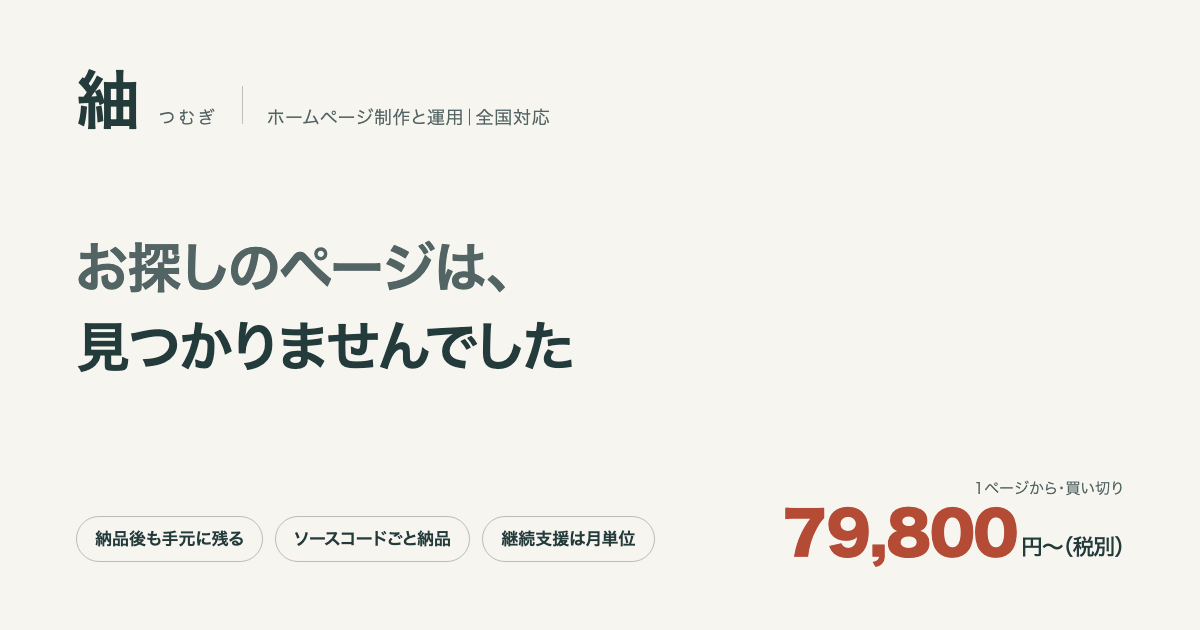
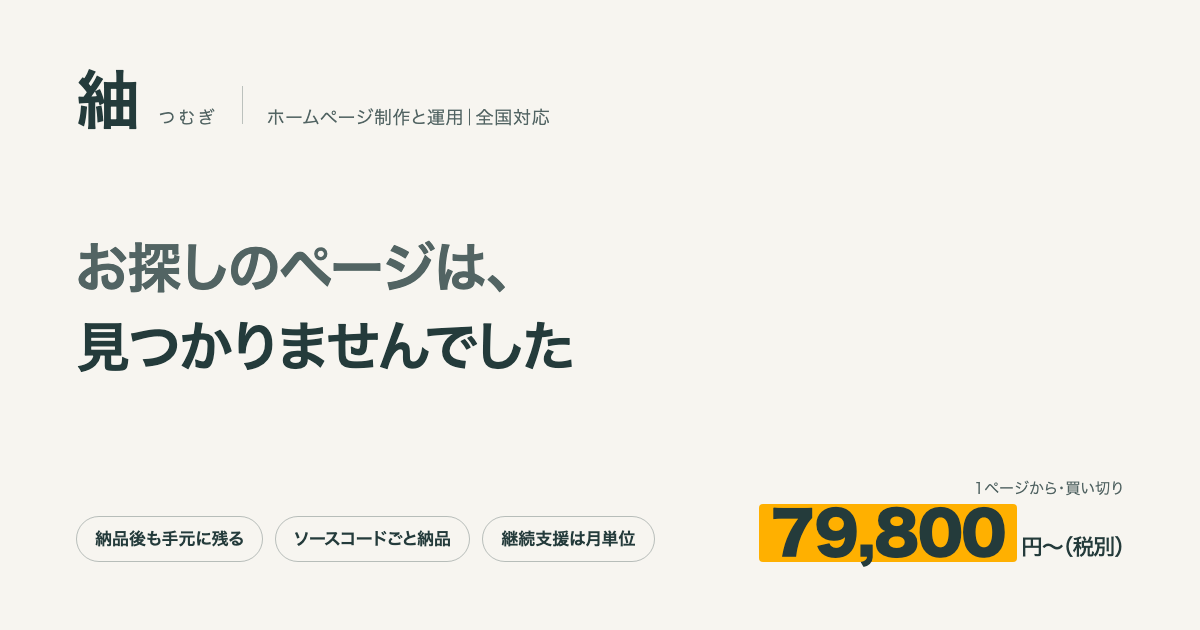
design: switch accent to warm amber with readable ink text

Changed region(s): [[0.6167, 0.7841, 0.8633, 0.9048]]

diff --git a/src/styles/tokens.css b/src/styles/tokens.css
@@ -7,10 +7,10 @@
   /* color */
   --color-main: #F7F5F0;  /* メイン70%：生成り。背景・余白・反転文字 */
   --color-sub: #243B3B;  /* サブ20%：墨。本文・説明の面・構造線 */
-  --color-accent: #B44B35;  /* アクセント10%：朱。主要操作・重要な数字・相談の面 */
+  --color-accent: #FFB000;  /* アクセント10%：琥珀。主要操作・重要な数字・相談の面 */
   --color-header-paper: #F7F5F0;
   --color-header-ink: #243B3B;
-  --color-header-brass: #B44B35;
+  --color-header-brass: #FFB000;
   --color-white: #F7F5F0;
   --color-ink: #243B3B;
   --color-panel: #243B3B;
@@ -20,25 +20,25 @@
   --color-paper: #F7F5F0;
   --color-line: color-mix(in srgb, var(--color-sub) 20%, var(--color-main));
   --color-line-strong: color-mix(in srgb, var(--color-sub) 45%, var(--color-main));
-  --color-green: #B44B35;
-  --color-green-deep: #B44B35;
-  --color-blue: #B44B35;
+  --color-green: #FFB000;
+  --color-green-deep: color-mix(in srgb, var(--color-accent) 25%, var(--color-sub));
+  --color-blue: #FFB000;
   --color-muted: color-mix(in srgb, var(--color-sub) 78%, var(--color-main));
   --color-muted-on-ink: color-mix(in srgb, var(--color-main) 82%, var(--color-sub));
   --color-alert: #243B3B;
   --color-alert-bg: #F7F5F0;
-  --color-ok: #B44B35;
+  --color-ok: color-mix(in srgb, var(--color-accent) 25%, var(--color-sub));
   --color-ok-bg: #F7F5F0;
   --color-warn: #243B3B;
   --color-warn-bg: #F7F5F0;
 
   /* theme */
-  --color-campaign-accent: #B44B35;
-  --color-campaign-accent-ink: #F7F5F0;  /* 朱の面は生成りの文字。小さい文字も薄めない */
-  --color-campaign-accent-text: #B44B35;  /* 白地に置く強調文字・リンク */
-  --color-main-accent: #B44B35;
-  --color-main-accent-ink: #F7F5F0;
-  --color-main-accent-text: #B44B35;
+  --color-campaign-accent: #FFB000;
+  --color-campaign-accent-ink: #243B3B;  /* 琥珀の面は墨の文字。小さい文字も薄めない */
+  --color-campaign-accent-text: color-mix(in srgb, var(--color-accent) 25%, var(--color-sub));  /* 白地に置く強調文字・リンク */
+  --color-main-accent: #FFB000;
+  --color-main-accent-ink: #243B3B;
+  --color-main-accent-text: color-mix(in srgb, var(--color-accent) 25%, var(--color-sub));
 
   /* size */
   --spacing-home-container: 1280px;  /* ホーム本文。図解と比較のための広い器 */

diff --git a/src/styles/home.css b/src/styles/home.css
@@ -31,7 +31,7 @@
     @apply rounded-[6px] text-[14px];
   }
   .home-content .btn-1 {
-    @apply bg-accent text-main border-accent min-w-[220px];
+    @apply bg-accent text-sub border-accent min-w-[220px];
   }
   .home-content .btn-2 {
     @apply border-line-strong;
@@ -43,7 +43,7 @@
     @apply bg-surface border-ink;
   }
   .home-intro .pricebox {
-    @apply flex flex-col items-stretch gap-[32px] p-[40px] bg-accent text-main;
+    @apply flex flex-col items-stretch gap-[32px] p-[40px] bg-accent text-sub;
     border: 0;
     @apply rounded-[20px];
   }
@@ -599,30 +599,43 @@
   }
 }
 
-/* 7:2:1の面積配分。最後の相談エリアを朱の面にする。 */
+/* 7:2:1の面積配分。琥珀の面は見出し・補足・操作とも墨で統一する。 */
 @layer overrides {
   .home-intro .pricebox .pre,
-  .home-intro .pricebox .alt li {
-    @apply text-main;
-  }
-  .home-section.dark .card h3 .ic {
-    @apply text-main;
-  }
-  .home-section.home-contact {
-    @apply bg-accent text-main;
-  }
+  .home-intro .pricebox .alt li,
+  .home-intro .pricebox .alt li b,
+  .home-contact h2,
   .home-contact .sh .lede,
+  .home-contact .sh .lede strong,
   .home-contact .stat .k,
   .home-contact .stat > .ic {
-    @apply text-main;
+    @apply text-sub;
+  }
+  .home-section.dark .card h3 .ic {
+    @apply text-accent;
+  }
+  .home-intro .pricebox .alt {
+    border-color: var(--color-sub);
+  }
+  .home-intro .pricebox .alt li::before {
+    @apply bg-sub;
+  }
+  .home-section.home-contact {
+    @apply bg-accent text-sub;
   }
   .home-contact .btn-1 {
-    @apply bg-main text-sub border-main;
+    @apply bg-sub text-main border-sub;
   }
   .home-contact .btn-2 {
-    @apply text-main border-main;
+    @apply text-sub border-sub;
+  }
+  .home-contact .btn-2:hover {
+    @apply bg-main text-sub;
   }
   .home-contact .stat {
-    border-color: var(--color-main);
+    border-color: var(--color-sub);
+  }
+  .home-section.home-contact :where(a, summary, label):focus-visible {
+    outline-color: var(--color-sub);
   }
 }

diff --git a/src/styles/components.css b/src/styles/components.css
@@ -115,7 +115,7 @@
   .header-contact {
     @apply inline-flex items-center justify-center gap-[18px] min-h-[48px] p-[10px_20px];
     border: 1px solid var(--color-accent);
-    @apply rounded-[4px] bg-accent text-main text-[13px] font-medium tracking-[.05em] whitespace-nowrap no-underline;
+    @apply rounded-[4px] bg-accent text-sub text-[13px] font-medium tracking-[.05em] whitespace-nowrap no-underline;
     transition:
       background var(--duration-fast) ease,
       color var(--duration-fast) ease;
@@ -250,7 +250,7 @@
     @apply text-white;
   }
 
-  /* 価格の面。ホームでは朱の面と生成りの文字で入口価格を示す */
+  /* 価格の面。ホームでは琥珀の面と生成りの文字で入口価格を示す */
   .pricebox {
     @apply flex flex-wrap items-center gap-[28px_40px] p-gap-group;
     border: 1px solid color-mix(in srgb, var(--color-main) 18%, transparent);
@@ -292,7 +292,7 @@
   }
 
   /* ══ C16 PrimaryAction / C17 SecondaryAction
-       主要CTA PC 315×57 / モバイル 260×48。朱の上は生成りの文字（ADR 0014） */
+       主要CTA PC 315×57 / モバイル 260×48。琥珀の上は墨の文字（ADR 0014） */
   .btns {
     @apply flex flex-wrap gap-[14px];
   }
@@ -746,7 +746,7 @@
   section.dark .calc .r.net .k .ic {
     @apply text-[var(--accent-ink)];
   }
-  /* 朱の面に載る補足。生成りの文字を薄めず、コントラストを保つ */
+  /* 琥珀の面に載る補足。墨の文字を薄めず、コントラストを保つ */
   section.dark .calc .r.net .k em {
     @apply text-[var(--accent-ink)];
   }
@@ -1157,8 +1157,8 @@
     background: var(--color-main);
     border-top-color: var(--color-line);
     @apply text-sub;
-    --fig-accent: var(--color-accent);
-    --fig-ok: var(--color-accent);
+    --fig-accent: var(--accent-text);
+    --fig-ok: var(--color-ok);
     --fig-bad: var(--color-sub);
   }
   section.dark .fig figcaption {

diff --git a/src/styles/footer.css b/src/styles/footer.css
@@ -39,11 +39,11 @@
     @apply whitespace-nowrap;
   }
   .ftr .footer-contact {
-    @apply inline-flex items-center justify-center gap-[16px] min-h-[60px] p-[16px_24px] rounded-[6px] bg-accent text-main text-[14px] whitespace-nowrap flex-[none];
+    @apply inline-flex items-center justify-center gap-[16px] min-h-[60px] p-[16px_24px] rounded-[6px] bg-accent text-sub text-[14px] whitespace-nowrap flex-[none];
     transition: background var(--duration-fast) ease;
   }
   .ftr .footer-contact:hover {
-    @apply bg-header-ink no-underline;
+    @apply bg-header-ink text-main no-underline;
   }
   .footer-contact .ic:last-child {
     @apply ml-[16px];

diff --git a/tools/scripts/og.ts b/tools/scripts/og.ts
@@ -71,7 +71,7 @@ const faviSvg = (m: string) =>
   `<rect width="64" height="64" rx="12" fill="${tokens.color.accent.$value}"/>` +
   '<text x="32" y="33" text-anchor="middle" dominant-baseline="central" ' +
   'font-family="Hiragino Sans, Noto Sans CJK JP, Meiryo, sans-serif" ' +
-  `font-size="44" font-weight="700" fill="${tokens.color.main.$value}">${m}</text></svg>`;
+  `font-size="44" font-weight="700" fill="${tokens.color.sub.$value}">${m}</text></svg>`;
 
 const ICONS = [
   [180, 'apple-touch-icon.png'],

diff --git a/tools/verify/static.ts b/tools/verify/static.ts
@@ -72,7 +72,7 @@ export function checkStatic(dist: string): void {
     ['--text-hero-mb: 24px', 'ヒーロー モバイル 24px'],
     ['--color-main: #F7F5F0', 'メイン70%・生成り #F7F5F0'],
     ['--color-sub: #243B3B', 'サブ20%・墨 #243B3B'],
-    ['--color-accent: #B44B35', 'アクセント10%・朱 #B44B35'],
+    ['--color-accent: #FFB000', 'アクセント10%・琥珀 #FFB000'],
     ['--radius-media: 8px', '角丸 media 8px'],
     ['--radius-pill: 999px', '角丸 pill 999px'],
   ];

diff --git a/tests/styles.test.ts b/tests/styles.test.ts
@@ -43,7 +43,7 @@ describe('Tailwind production compiler', () => {
         expect(css).toContain('tailwindcss v4.');
         expect(css).toContain('--color-main: #F7F5F0');
         expect(css).toContain('--color-sub: #243B3B');
-        expect(css).toContain('--color-accent: #B44B35');
+        expect(css).toContain('--color-accent: #FFB000');
         expect(css).not.toMatch(/@(?:apply|theme|import|source)\b/);
         if (input === 'globals') {
           expect(css).toContain('.footer-intro');

diff --git a/src/styles/og.css b/src/styles/og.css
@@ -71,10 +71,10 @@
     @apply text-[22px] not-italic font-semi ml-[4px];
   }
   .amt .v b {
-    @apply text-green;
+    @apply text-sub bg-accent px-[12px] rounded-[4px];
   }
   .og-icon {
-    @apply items-center justify-center bg-accent text-main;
+    @apply items-center justify-center bg-accent text-sub;
   }
   .og-icon span {
     @apply font-bold leading-[1];

diff --git a/docs/product/design.md b/docs/product/design.md
@@ -15,7 +15,7 @@
 |---|---|---|
 | メイン70% | 生成り `#F7F5F0`：背景・余白・図解の面 | ADR 0014 |
 | サブ20% | 墨 `#243B3B`：文字・説明の暗い章 | ADR 0014 |
-| アクセント10% | 朱 `#B44B35`：主要CTA・料金・相談の面 | ADR 0014 |
+| アクセント10% | 琥珀 `#FFB000`：主要CTA・料金・相談の面 | ADR 0014 |
 | 補助文字・線 | 上記3色からの混色・透過。独立した色値を増やさない | ADR 0014 |
 | ヘッダー高 | PC 88px → モバイル 72px | ADR 0006（07 寸法を更新） |
 | 外側の余白 | PC 48px／ヒーロー 80px／モバイル本文 24px・ヘッダー 20px | 07 |
@@ -33,7 +33,7 @@
 
 ### 紬のブランドヘッダー
 
-生成り `#F7F5F0` に墨 `#243B3B` を置き、朱 `#B44B35` の問い合わせボタンと細い罫線を添えます。屋号だけを端末の明朝にし、欧文とナビゲーションは既存のゴシックにします。ヘッダーは画像に重ねず、その直上に独立した面として置きます。
+生成り `#F7F5F0` に墨 `#243B3B` を置き、琥珀 `#FFB000` の問い合わせボタンと細い罫線を添えます。屋号だけを端末の明朝にし、欧文とナビゲーションは既存のゴシックにします。ヘッダーは画像に重ねず、その直上に独立した面として置きます。
 
 PCは88px、768px以下は72px。999px以下では横並びの主ナビを全体メニューに集約し、問い合わせは常時表示します。1440px以上では電話もヘッダーに表示し、それ以下では全体メニューと既存の下部導線から利用できます。電話はアイコンと番号だけです。準備中の注意帯は残します。
 
@@ -41,11 +41,11 @@ PCは88px、768px以下は72px。999px以下では横並びの主ナビを全体
 
 ### 3色の使い方と7:2:1
 
-メイン70%・サブ20%・アクセント10%は、写真・ヒーローイラストを除くUIの面積バランスの目安です。すべての部品やページを同じピクセル比率へ強制するものではありません。ホームでは生成りの本文を中心に、約束・標準仕様・料金比較を墨色の章、最後の相談と冒頭の料金パネルを朱色の面とします。スマートフォンは文章が縦に伸びるため比率が多少変わります。
+メイン70%・サブ20%・アクセント10%は、写真・ヒーローイラストを除くUIの面積バランスの目安です。すべての部品やページを同じピクセル比率へ強制するものではありません。ホームでは生成りの本文を中心に、約束・標準仕様・料金比較を墨色の章、最後の相談と冒頭の料金パネルを琥珀色の面とします。スマートフォンは文章が縦に伸びるため比率が多少変わります。
 
 色値の正本は `src/styles/design.tokens.json` の `color.main` / `color.sub` / `color.accent` の3項目だけです。残りの色トークンは参照、または3色の混色・透過です。`PROFILE` の `campaign` と `main` も同じパレットを参照し、緑・青を復活させません。既存トークン名は部品互換のため保持します。ブラウザのテーマ色・OGP・ファビコンも同じ正本を使います。
 
-生成りと墨、生成りと朱の組み合わせで文字を配置します。朱の面の小さな文字は薄めず生成りにし、墨の面に朱の小さな文字を置きません。暗い章でも図解のキャンバスは生成りにして、図内の文字と記号の読みやすさを確保します。状態は色だけに依存せず、チェック・バツ・見出し・説明文を残します。
+生成りと墨、琥珀と墨の組み合わせで文字を配置します。琥珀の面の小さな文字は墨にし、明るい面には琥珀と墨の混色による濃い強調文字を使います。暗い章でも図解のキャンバスは生成りにして、図内の文字と記号の読みやすさを確保します。アクセント変更の判断は [ADR 0015](../architecture/0015-amber-accent.md) を参照してください。状態は色だけに依存せず、チェック・バツ・見出し・説明文を残します。
 
 ヒーローの原画・アイコン・図解・コピー・料金のデータは保持します。追加の実行時JavaScript、外部フォント、UIライブラリはありません。判断と検証は [ADR 0014](../architecture/0014-three-color-system.md) を参照してください。
 
@@ -195,7 +195,7 @@ LCPが実測0.30秒で描画が詰まっていないのに、
 
 - **色は2つだけ意味を持つ。**`--fig-accent`（こちらが勧める側）と `--fig-ok`（残るもの）。
   `--fig-bad`（失われるもの）を加えた3つ。ほかは全部 `currentColor` の濃淡なので、明るい節・墨紺の節・ダークテーマのどこに置いても成立します
-- **暗い章でも図解の面を生成りにする。**図内は朱と墨で意味を区別し、小さい文字にも通常のコントラスト条件を適用します（ADR 0014）。
+- **暗い章でも図解の面を生成りにする。**図内は琥珀と墨で意味を区別し、小さい文字にも通常のコントラスト条件を適用します（ADR 0014）。
 - **`marker` の id は図ごとに固有にする。**1ページに複数の図が載るため、
   `fig()` が図の aria-label から決まる接尾辞を付けます（`dg-a…` / `dg-p…`）。
   通し番号にしないのは、ページを並列に書き出すとビルドのたびに番号が変わり、同じ入力から同じ HTML が出なくなるため

diff --git a/docs/status.md b/docs/status.md
@@ -1,6 +1,6 @@
 # 現状と残課題
 
-- 最終更新：2026-09-14（生成り・墨・朱の3色リデザイン）
+- 最終更新：2026-09-14（生成り・墨・琥珀の3色リデザイン）
 - **作業を終えたら、この文書を更新する。** 終わった課題は消さずに「完了した課題」へ移し、日付を入れる
 - 事業として決めること（運用の工数・集客経路・出張撮影の扱いなど）の順番は、[ビジネスガイドライン](business/紬_ビジネスガイドライン.md) の「12. 未決事項」が正本。法令まわりの未解決は同じ文書の「8.1」。ここには、**コードと公開作業に関わるもの**を書く
 
@@ -22,9 +22,9 @@
 | 動作を確かめた環境 | macOS・Node 24.21.0・npm 12.0.2・Playwright 1.63.0（Chromium）。ローカル・CI・Vercel を Node 24 系へ統一 |
 | 文言とルート | `i18n/locales/ja/` と `routing/registry.ts` に集約。Next の入口3枚と表示テンプレートを分離。電話は共通部品でアイコン＋番号だけを表示（ADR 0004） |
 | CSSの中央管理 | Tailwind CSS 4.3.3。88個のトークンから `@theme` を生成し、公開ページは `globals.css`、共有カード画像は `og.css` を入口にコンパイル。ページの静的インライン指定を解消、開発時の監視と中央管理の自動検査を追加（ADR 0009） |
-| 共通フッター | 生成りの面と朱のCTAに、相談・連絡先・案内・大きなブランド文字を配置。アイコン32個、20ページへの案内、先頭への移動、現在地を表示（ADR 0008） |
-| ホーム本文 | 生成り70%・墨20%・朱10%をUI面積の目安として、広い図解・左右に分けた説明・料金比較・FAQを再構成。元の図解4点と全説明文を保持、本文のLucideアイコンは31→45。本文の構成はADR 0007、現行の配色はADR 0014 |
-| 共通ヘッダー | 生成り・墨・朱・明朝の屋号。高さ88/72px、問い合わせCTAとネイティブの全体メニュー。追加の実行時JS・外部フォントなし（ADR 0006） |
+| 共通フッター | 生成りの面と琥珀のCTAに、相談・連絡先・案内・大きなブランド文字を配置。アイコン32個、20ページへの案内、先頭への移動、現在地を表示（ADR 0008） |
+| ホーム本文 | 生成り70%・墨20%・琥珀10%をUI面積の目安として、広い図解・左右に分けた説明・料金比較・FAQを再構成。元の図解4点と全説明文を保持、本文のLucideアイコンは31→45。本文の構成はADR 0007、現行の配色はADR 0014 |
+| 共通ヘッダー | 生成り・墨・琥珀・明朝の屋号。高さ88/72px、問い合わせCTAとネイティブの全体メニュー。追加の実行時JS・外部フォントなし（ADR 0006） |
 | 暫定ヒーロー | ヘッダー直下に国生みの画像を配置。自己完結SVG（WebP内包、約741 KiB）、モバイルの補助コピーと読み上げに対応（ADR 0005） |
 | 旧版 | Python 版（`svc/`）と Astro 版（`svc-astro/`）は削除済み。コミット `01f39d4` で読める。移植が正しいことの確かめ方は [history/2026-09-migration.md](history/2026-09-migration.md) |
 
@@ -153,3 +153,8 @@ GitHub Actions・Dependabot・npm・Vercelをルート基準へ統一。出力50
 生成り `#F7F5F0`・墨 `#243B3B`・朱 `#B44B35` に全UIを統一。配分は70/20/10を目安にし、ホームの概算実測はPC72/20/8・スマートフォン69/22/9（原画を除く）。トークン・Tailwind・ブラウザテーマ色・OGP・ファビコンを同期した。価格・文言・リンク先・アイコン数は全21ページで保持する。
 
 型・lint・単体107件・料金モデル9件・ビルド成功、標準603 PASS / WARN 1 / FAIL 0、静的358 PASS。追加で全21ページ×幅390/1440pxの42組の文字・図のコントラストと横はみ出しを確認した。CSS Color 4の検査側の誤読も修正し、基準は維持。詳細は [ADR 0014](architecture/0014-three-color-system.md)。
+
+
+### 2026-09-14 アクセントを琥珀色へ変更
+
+利用者の黄色系への希望を受け、朱から琥珀 `#FFB000` に変更。生成り・墨との3色構成と7:2:1の面積方針を維持する。明るいアクセントの上は墨文字とし、図解やリンクの小さい強調文字は琥珀と墨から導出する。共有カード・ファビコンも同期。売上への効果は未検証であり、色だけを根拠に効果を保証しない。判断と検証は [ADR 0015](architecture/0015-amber-accent.md)。

diff --git a/docs/architecture/0015-amber-accent.md b/docs/architecture/0015-amber-accent.md
@@ -1,0 +1,26 @@
+# ADR 0015: アクセントを琥珀色へ変更
+
+- 状態: 採用
+- 日付: 2026-09-14
+- 更新対象: ADR 0014のアクセント色と文字の組み合わせ
+
+## 判断
+
+利用者の「Amazonのような黄色っぽいアクセント」という希望を受け、アクセントを朱から黄みのある琥珀 `#FFB000` へ変更する。生成り `#F7F5F0` と墨 `#243B3B`、イラストを除くUI面積の70/20/10という目安は維持する。
+
+Amazonが公開している[ロゴ利用資料](https://images-eu.ssl-images-amazon.com/images/G/46/gc/Corporate/Logo_Usage_Guidelines_en_1.pdf)にはAmazon Orange `#FF9900` が示されている。今回はその印象を参考に、依頼の黄色寄りに調整した独自色を選ぶ。この資料は色が売上を増やす因果関係の根拠ではない。紬での成果は未検証であり、色の心理効果による売上増加を保証しない。
+
+## 実装
+
+- 原色は引き続き3値だけ。変更は `design.tokens.json` を正本として反映する。
+- 琥珀のボタン・料金面には墨文字を使う。ヘッダー、フッター、相談、計算結果、共有カード、ファビコンの反転色を同期する。
+- 明るい面に載る小さい強調文字と図の良状態は、琥珀25%＋墨75%の混色から導出する。独立した4色目を追加せず、意味のラベル・チェック・バツ・線を保つ。
+- 暗い章のアイコンには琥珀を使う。相談の琥珀面では墨のアイコン・文字・フォーカス枠にする。
+- OGP21枚、PNGアイコン2枚、SVGファビコン1枚を既存のmacOSフォント環境で同期する。共有カードの料金は墨文字＋琥珀の面で強調する。
+- コピー、価格、ルート、アイコン数、ヒーロー原画、実行時JSゼロの仕様は変更しない。
+
+## 検証
+
+型・lint・単体107件・料金モデル9件・ビルド成功。標準603 PASS / WARN 1 / FAIL 0、静的358 PASS。WARNは既知の仮設定。ホームの料金パネルと相談セクションをPC・スマートフォンで、OGPを実画像で確認した。全21ページ×390/1440pxの文字・図のコントラストと横はみ出しも42組で巡回し、失敗なしを確認した。
+
+ブラウザ検証はChromium。売上効果・実機Safari・本番デプロイの確認を意味しない。CIとVercelプレビューの結果はPRを参照する。

diff --git a/docs/spec.md b/docs/spec.md
@@ -24,7 +24,7 @@
 - 料金ページに全プランの金額が載っている
 - 業種別ページが4本ある
 - **`design.tokens.json` と `tokens.css` が同期している**（ずれていたら納品しない）
-- **採用した寸法・色15項目が出ている**（ヘッダーはADR 0006の88/72px、315×57、260×48、1104px、720px、45/24px、生成り `#F7F5F0`、墨 `#243B3B`、朱 `#B44B35`（ADR 0014）、角丸…）
+- **採用した寸法・色15項目が出ている**（ヘッダーはADR 0006の88/72px、315×57、260×48、1104px、720px、45/24px、生成り `#F7F5F0`、墨 `#243B3B`、琥珀 `#FFB000`（ADR 0014）、角丸…）
 - **使わないと決めた値が混入していない**（`#858A95`、旧Shipporiフォント、外部フォントの読み込み。屋号の端末明朝はADR 0006で採用）
 - **全ページに og:image があり、その画像が out に実在する**（真っ白な共有カードを出さない）
 - **ファビコンと apple-touch-icon が入っている**
@@ -47,7 +47,7 @@
 この仕組みを作った初回で、**目視では気づきにくい3件**が出ました。
 
 1. **ヘッダーの電話番号が赤地に赤で描画されていた。**
-   `.tel .num` が、表のバツ印用に定義した `.no{color: 朱}` を拾っていたCSSのカスケード衝突。
+   `.tel .num` が、表のバツ印用に定義した `.no{color: 琥珀}` を拾っていたCSSのカスケード衝突。
    → コントラスト検査に `.tel .num` を追加して、機械で捕まえられるようにしました。
 2. **13ページで `<h1>` が0個だった。**
    セクション見出しが全部 `<h2>` だったため。
@@ -55,7 +55,7 @@
 3. **1ページだけタップ領域の判定が誤検出していた。**
    CSS適用前に計測していた競合状態。
    → スタイルシートの適用完了を待ってから計測するようにしました。
-4. **図の朱色の注記が、墨紺の節の上で 2.94:1 しか出ていなかった。**
+4. **図の琥珀色の注記が、墨紺の節の上で 2.94:1 しか出ていなかった。**
    SVGの `<text>` は `fill` で色が決まるため、本文用のコントラスト検査を素通りしていました。
    → 図専用の検査を足し、`section.dark .fig` でトークンを明るい側に振り替えました。
 
